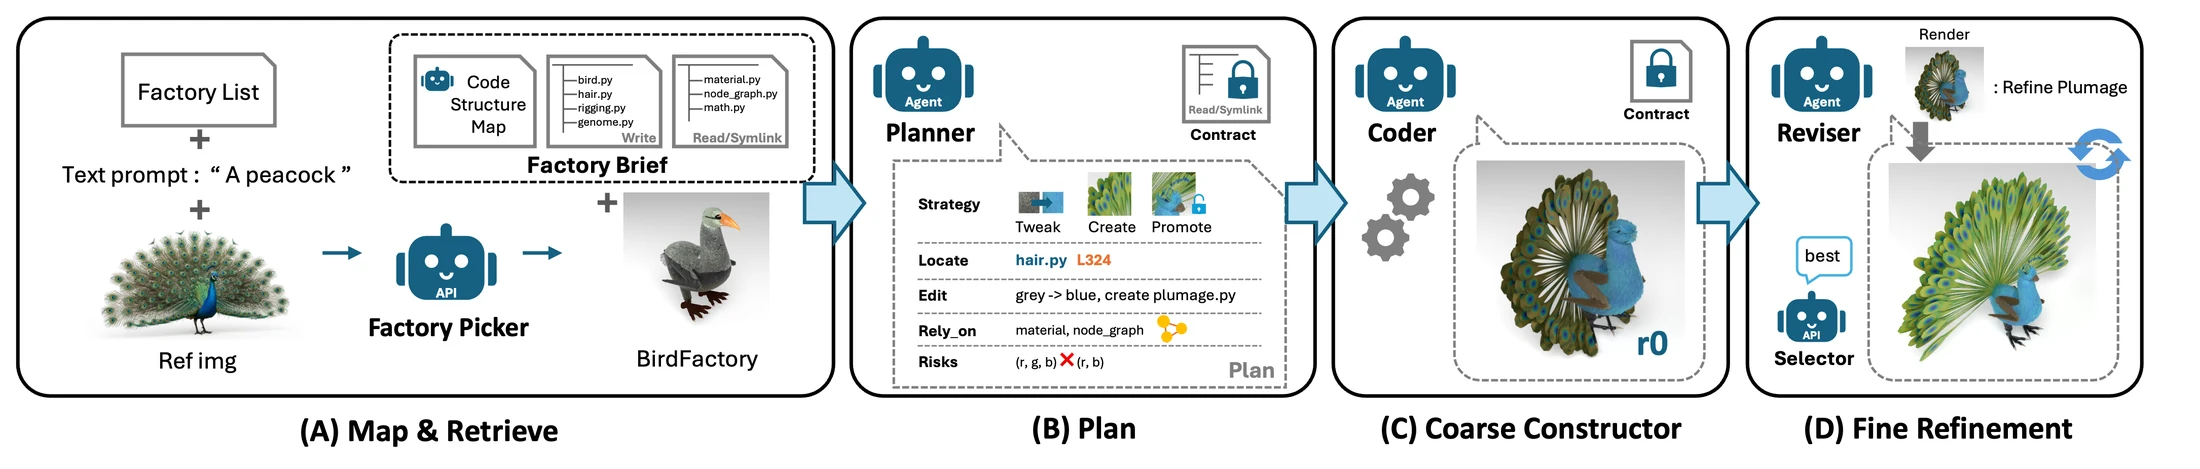
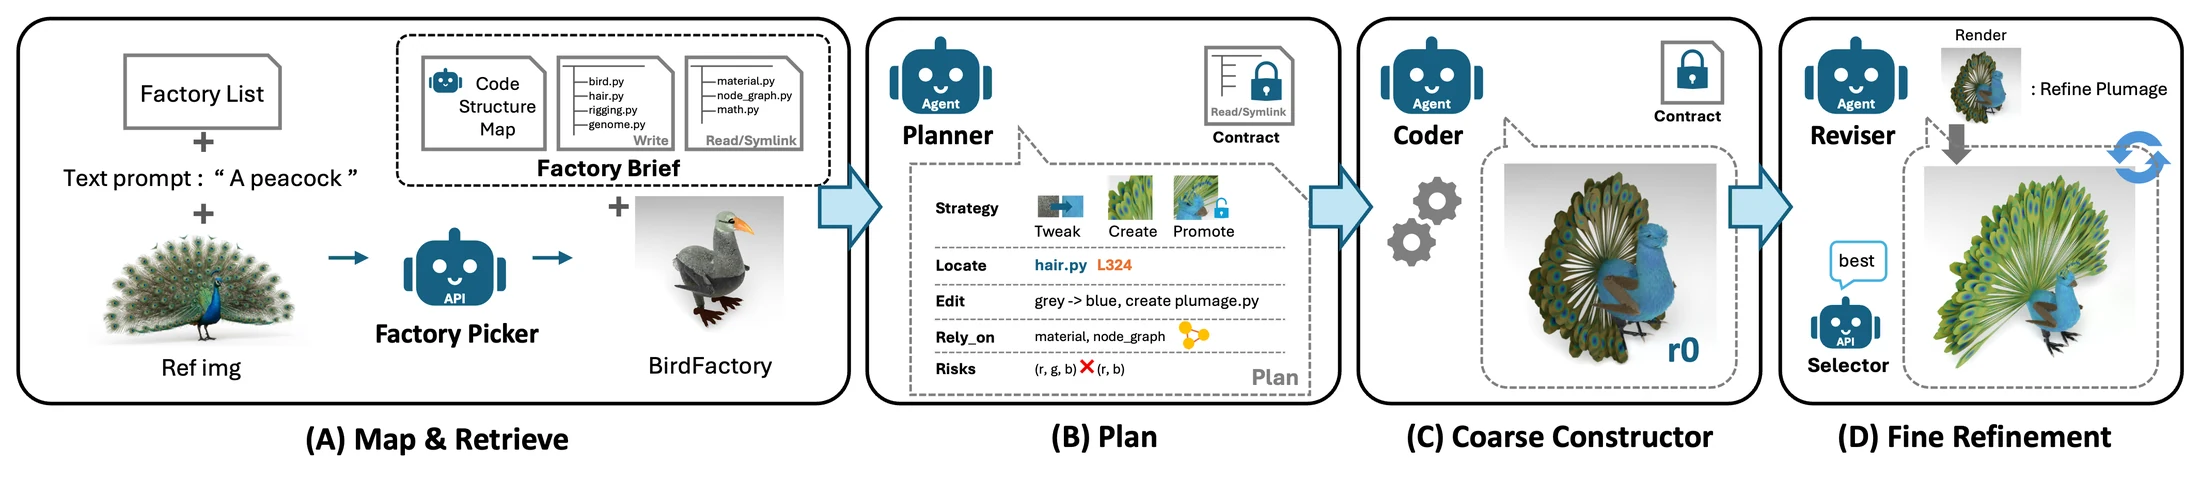
Alaya Lab first, and even margins on the stepped figures
Affiliations renumbered so Alaya Lab leads: 1 Alaya Lab, 2 NYCU, 3 NTU. The first and
third authors now carry both their university and the lab.

The SCE and asset figures were exported with roughly 90px more whitespace on the right
than on the left. Both sets are trimmed to a single shared width, so the margins match
and the frames still line up with each other as the stepper advances.

diff --git a/index.html b/index.html
@@ -7,7 +7,7 @@
 <link rel="preconnect" href="https://fonts.googleapis.com">
 <link rel="preconnect" href="https://fonts.gstatic.com" crossorigin>
 <link href="https://fonts.googleapis.com/css2?family=Source+Serif+4:opsz,wght@8..60,500;8..60,600;8..60,700&family=Inter:wght@400;500;600;700;800&family=JetBrains+Mono:wght@400;500&display=swap" rel="stylesheet">
-<link rel="stylesheet" href="style.css?v=76">
+<link rel="stylesheet" href="style.css?v=78">
 </head>
 <body>
 
@@ -16,17 +16,17 @@
   <img class="logo" src="logo.png?v=3" alt="InfiniDream — from finite code to infinite worlds">
   <p class="paper-title">Open-Ended Photorealistic 3D Worlds through Procedural Generation</p>
   <p class="authors">
-    <a href="https://yichuanh.github.io/" target="_blank" rel="noopener">Yi-Chuan Huang</a><sup>1</sup> &middot;
-    <a href="https://chien90190.github.io/" target="_blank" rel="noopener">Hao-Jen Chien</a><sup>1</sup> &middot;
-    <a href="https://brian90709.github.io/" target="_blank" rel="noopener">Zheng-Hui Huang</a><sup>2</sup> &middot;
-    <a href="https://yulunalexliu.github.io/" target="_blank" rel="noopener">Yu-Lun Liu</a><sup>1</sup> &middot;
-    <a href="https://kpzhang93.github.io/" target="_blank" rel="noopener">Kaipeng Zhang</a><sup>3</sup> &middot;
-    <a href="https://lightchaserx.github.io/" target="_blank" rel="noopener">Zhixiang Wang</a><sup>3</sup>
+    <a href="https://yichuanh.github.io/" target="_blank" rel="noopener">Yi-Chuan Huang</a><sup>1,2</sup> &middot;
+    <a href="https://chien90190.github.io/" target="_blank" rel="noopener">Hao-Jen Chien</a><sup>2</sup> &middot;
+    <a href="https://brian90709.github.io/" target="_blank" rel="noopener">Zheng-Hui Huang</a><sup>1,3</sup> &middot;
+    <a href="https://yulunalexliu.github.io/" target="_blank" rel="noopener">Yu-Lun Liu</a><sup>2</sup> &middot;
+    <a href="https://kpzhang93.github.io/" target="_blank" rel="noopener">Kaipeng Zhang</a><sup>1</sup> &middot;
+    <a href="https://lightchaserx.github.io/" target="_blank" rel="noopener">Zhixiang Wang</a><sup>1</sup>
   </p>
   <p class="affils">
-    <sup>1</sup>National Yang Ming Chiao Tung University &nbsp;
-    <sup>2</sup>National Taiwan University &nbsp;
-    <sup>3</sup>Alaya Lab
+    <sup>1</sup>Alaya Lab &nbsp;
+    <sup>2</sup>National Yang Ming Chiao Tung University &nbsp;
+    <sup>3</sup>National Taiwan University
   </p>
   <nav class="links">
     <a class="btn" href="#" aria-disabled="true"><span class="btn-ic">&#128196;</span> Paper</a>
@@ -159,10 +159,10 @@
     <p class="section-lede">Handing a VLM the entire Infinigen codebase leads to imprecise editing. SCE instead <strong>extracts the key code structures and explicit editing constraints</strong>, turning a large procedural codebase into a manageable editing space.</p>
     <div class="pipe" id="pipe-sce" data-start="3">
       <div class="pipe-stage">
-        <img src="pipeline/sce1.webp?v=4" alt="Baseline 1: a VLM modelling from scratch, with no procedural code to build on">
-        <img src="pipeline/sce2.webp?v=4" alt="Baseline 2: Infinigen's own hand-written factories, a fixed catalogue">
-        <img src="pipeline/sce3.webp?v=4" alt="Baseline 3: handing the VLM the entire Infinigen codebase, 833 files">
-        <img src="pipeline/sce4.webp?v=4" class="is-on" alt="Ours: Symbolically Constrained Editing narrows 833 files to 3 editable ones">
+        <img src="pipeline/sce1.webp?v=5" alt="Baseline 1: a VLM modelling from scratch, with no procedural code to build on">
+        <img src="pipeline/sce2.webp?v=5" alt="Baseline 2: Infinigen's own hand-written factories, a fixed catalogue">
+        <img src="pipeline/sce3.webp?v=5" alt="Baseline 3: handing the VLM the entire Infinigen codebase, 833 files">
+        <img src="pipeline/sce4.webp?v=5" class="is-on" alt="Ours: Symbolically Constrained Editing narrows 833 files to 3 editable ones">
       </div>
       <ol class="pipe-steps">
         <li><button type="button"><span class="pipe-k">1</span>VLM from Scratch<i></i></button></li>
@@ -187,10 +187,10 @@
     <p class="section-lede">SCE generates novel, photorealistic procedural assets with <strong>rich geometric details beyond predefined factories</strong>, while preserving editability and seed-based diversity.</p>
     <div class="pipe pipe-wide" id="pipe-asset">
       <div class="pipe-stage">
-        <img src="pipeline/asset1.webp" class="is-on" alt="Stage A: map and retrieve the closest Infinigen factory and build a Factory Brief">
-        <img src="pipeline/asset2.webp" alt="Stage B: the Planner writes a structured Editing Plan">
-        <img src="pipeline/asset3.webp" alt="Stage C: the Coarse Constructor executes the plan inside the declared boundaries">
-        <img src="pipeline/asset4.webp" alt="Stage D: the Reviser refines from renders and a Selector keeps the best candidate">
+        <img src="pipeline/asset1.webp?v=2" class="is-on" alt="Stage A: map and retrieve the closest Infinigen factory and build a Factory Brief">
+        <img src="pipeline/asset2.webp?v=2" alt="Stage B: the Planner writes a structured Editing Plan">
+        <img src="pipeline/asset3.webp?v=2" alt="Stage C: the Coarse Constructor executes the plan inside the declared boundaries">
+        <img src="pipeline/asset4.webp?v=2" alt="Stage D: the Reviser refines from renders and a Selector keeps the best candidate">
       </div>
       <ol class="pipe-steps">
         <li><button type="button" aria-current="true"><span class="pipe-k">A</span>Map &amp; Retrieve<i></i></button></li>
@@ -265,6 +265,6 @@
 </footer>
 
 <script src="data.js"></script>
-<script src="main.js?v=76"></script>
+<script src="main.js?v=78"></script>
 </body>
 </html>
